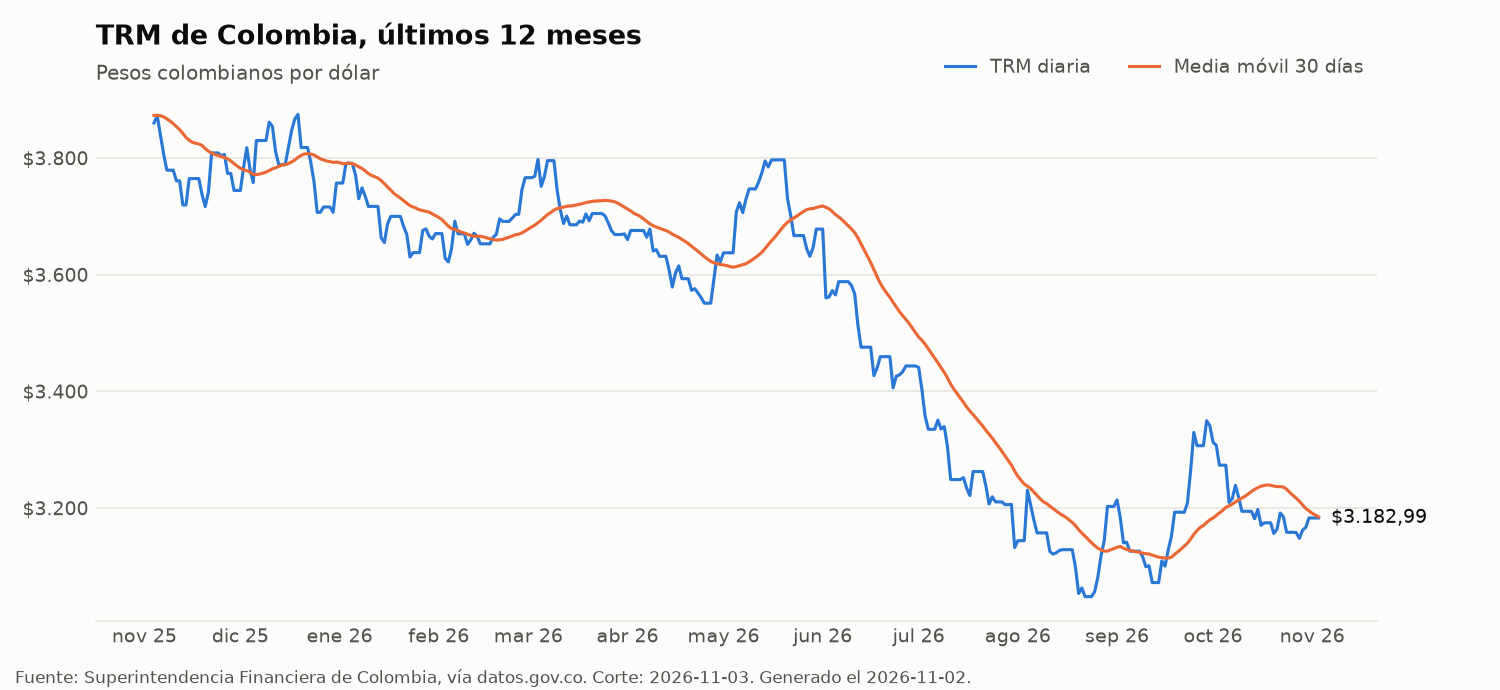
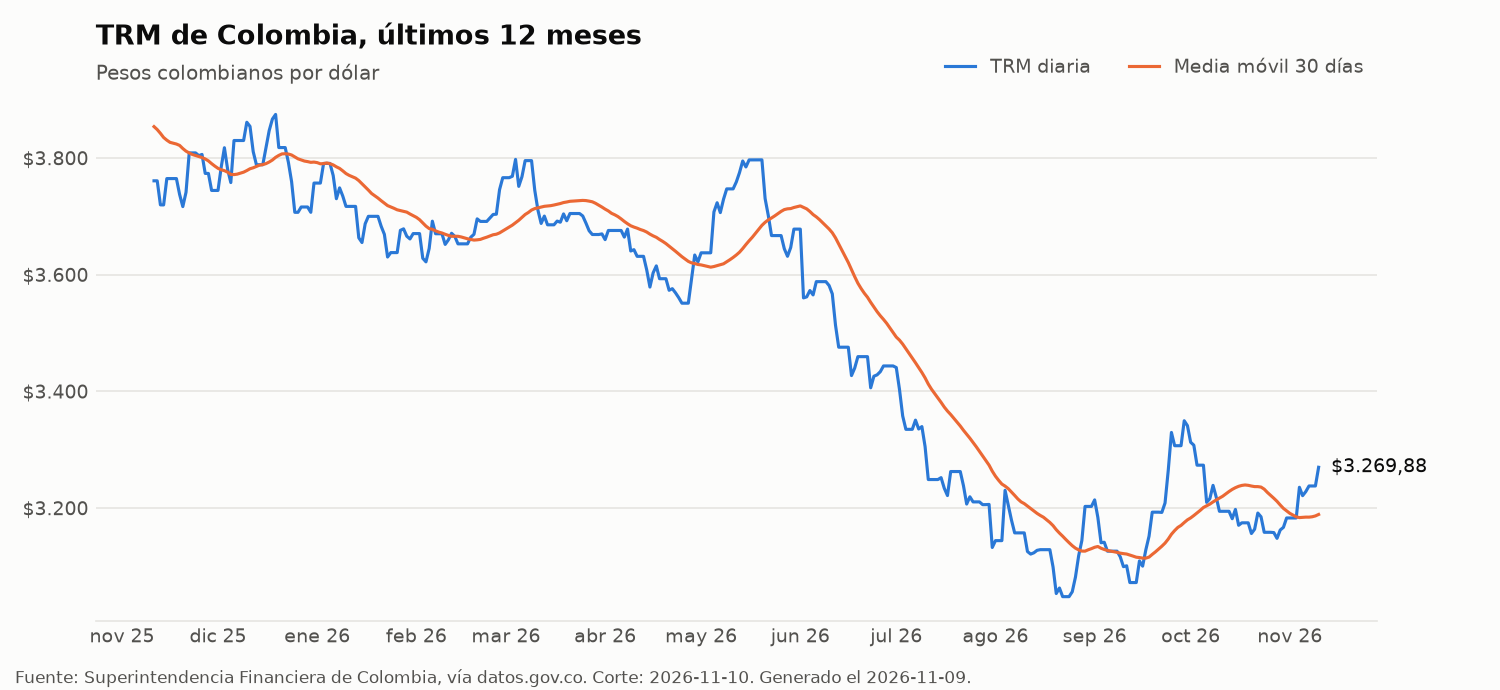
Actualiza datos y gráfico de la TRM [skip ci]

Changed region(s): [[0.092, 0.1522, 0.9507, 0.8826], [0.0613, 0.913, 0.8893, 0.9435], [0.8893, 0.6696, 0.9507, 0.7]]

diff --git a/docs/resumen.md b/docs/resumen.md
@@ -4,9 +4,9 @@ Este archivo lo genera el pipeline en cada ejecución. Fuente: Superintendencia 
 
 | Indicador | Valor |
 | --- | --- |
-| Fecha de corte | 2026-11-03 |
-| TRM actual | $3.182,99 |
+| Fecha de corte | 2026-11-10 |
+| TRM actual | $3.269,88 |
 | Mínimo 52 semanas | $3.048,12 |
 | Máximo 52 semanas | $3.874,71 |
-| Variación en lo corrido del año | -15,28 % |
-| Días en la bodega | 12.756 |
+| Variación en lo corrido del año | -12,97 % |
+| Días en la bodega | 12.763 |
